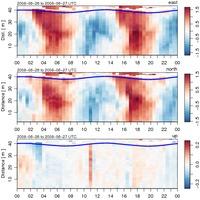
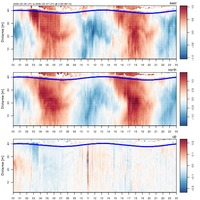
update demo2

diff --git a/web/oce-demo-2.html b/web/oce-demo-2.html
@@ -79,8 +79,7 @@ body .il { color: #666666 } /* Literal.Number.Integer.Long */
 
 <div class="highlight"><pre>library<span class="p">(</span>oce<span class="p">)</span>
 data<span class="p">(</span>adp<span class="p">)</span>
-e <span class="o">&lt;-</span> adp.xyz2enu<span class="p">(</span>adp.beam2xyz<span class="p">(</span>adp<span class="p">))</span>
-plot<span class="p">(</span>e<span class="p">,</span>which<span class="o">=</span><span class="m">1</span>:<span class="m">3</span><span class="p">,</span>
+plot<span class="p">(</span>adp<span class="p">,</span> which<span class="o">=</span><span class="m">1</span>:<span class="m">3</span><span class="p">,</span>
      adorn<span class="o">=</span>expression<span class="p">({</span>lines<span class="p">(</span>x<span class="p">$</span>data<span class="p">$</span>ts<span class="p">$</span>time<span class="p">,</span> x<span class="p">$</span>data<span class="p">$</span>ts<span class="p">$</span>pressure<span class="p">,</span> lwd<span class="o">=</span><span class="m">3</span><span class="p">,</span> col<span class="o">=</span><span class="s">&#39;blue&#39;</span><span class="p">)}))</span>
 </pre></div>
 </body>
